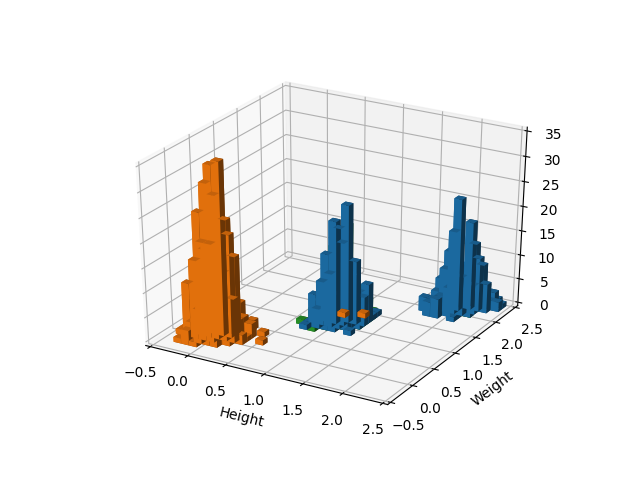
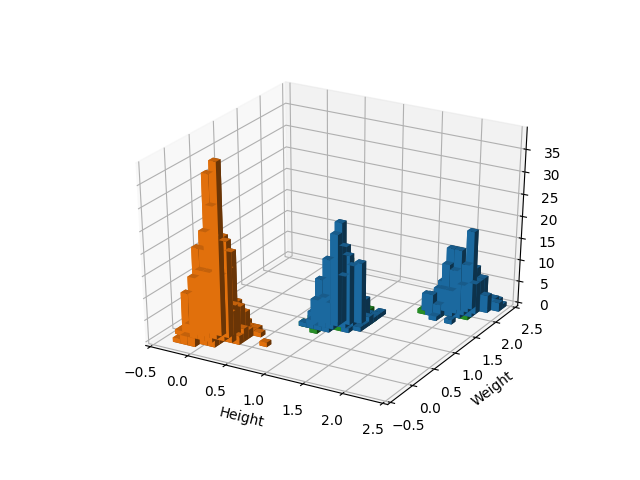
problem2: changed vis_bins to odd so all cats fall into 1 bin

diff --git a/problem2.py b/problem2.py
@@ -25,18 +25,18 @@ if __name__ == '__main__':
     x, y, z = make_batch(ndims, batch_size=1000)   
     fig = plt.figure()
     ax = fig.add_subplot(111, projection='3d')
-    plot3d(ax, y[z==1, 0], y[z==1, 1], vis_bins=30)
-    plot3d(ax, y[z==0, 0], y[z==0, 1], vis_bins=30)
-    plot3d(ax, y[z==2, 0], y[z==2, 1], vis_bins=30)
+    plot3d(ax, y[z==1, 0], y[z==1, 1], vis_bins=31)
+    plot3d(ax, y[z==0, 0], y[z==0, 1], vis_bins=31)
+    plot3d(ax, y[z==2, 0], y[z==2, 1], vis_bins=31)
     
     fig = plt.figure()
     ax = fig.add_subplot(111, projection='3d')
-    plot3d(ax, *mmr_pred_y[1][:2], vis_bins=30)
-    plot3d(ax, *mmr_pred_y[0][:2], vis_bins=30)
-    plot3d(ax, *mmr_pred_y[2][:2], vis_bins=30)
+    plot3d(ax, *mmr_pred_y[1][:2], vis_bins=31)
+    plot3d(ax, *mmr_pred_y[0][:2], vis_bins=31)
+    plot3d(ax, *mmr_pred_y[2][:2], vis_bins=31)
     
     fig = plt.figure()
     ax = fig.add_subplot(111, projection='3d')
-    plot3d(ax, *gmm_clsfy_y[1][:2], vis_bins=30)
-    plot3d(ax, *gmm_clsfy_y[0][:2], vis_bins=30)
-    plot3d(ax, *gmm_clsfy_y[2][:2], vis_bins=30)
+    plot3d(ax, *gmm_clsfy_y[1][:2], vis_bins=31)
+    plot3d(ax, *gmm_clsfy_y[0][:2], vis_bins=31)
+    plot3d(ax, *gmm_clsfy_y[2][:2], vis_bins=31)
